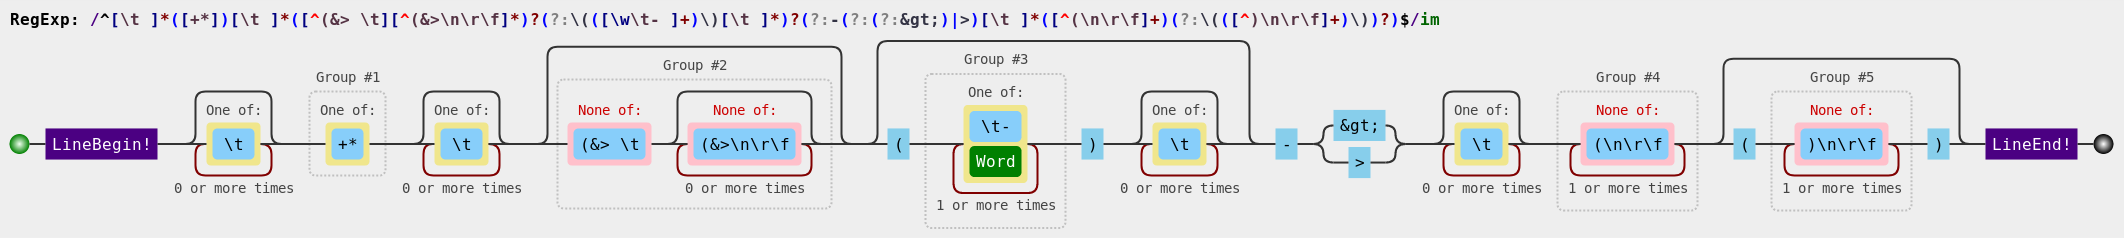
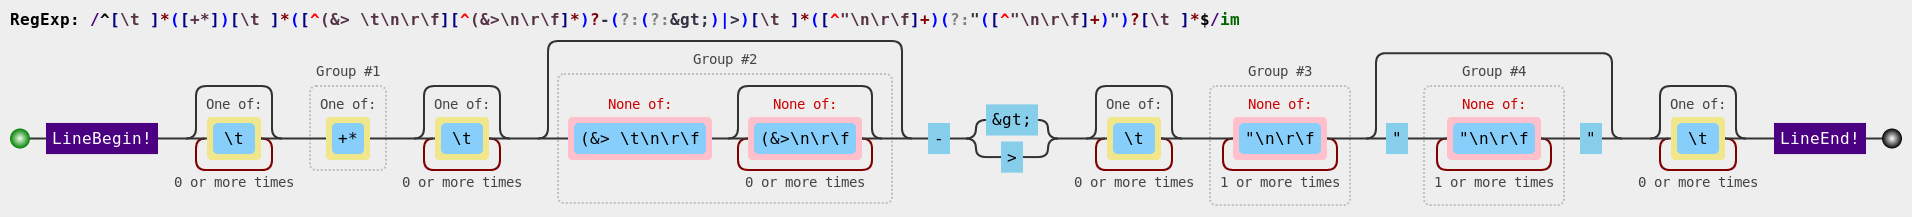
refactor (annotations) & feat (scripts)

diff --git a/versum/reference.md b/versum/reference.md
@@ -62,30 +62,47 @@ Diverts are transformed into a triggerable element in the presentation. Examples
 ~~~markdown
 Label -> Target
 ~~~
-The left part (`Label`) is the label to be presented or related to the triggerable element. The middle that appears as an arrow ( `->`) or a variation (according to the type), defines the divert. The right element (` Target`) defines the target knot, to be addressed when the divert is triggered.
+The left part is either a `Label` or a Logical `Expression`. `Label` is the label to be presented or related to the triggerable element; `Expression` is the logical expression to be evaluated. The middle that appears as an arrow ( `->`) or a variation (according to the type), defines the divert. The right element (` Target`) defines the target knot, to be addressed when the divert is triggered.
 
 There are three types of divert:
 
 ### Forward Divert
 ~~~markdown
-* Label -> Target
+* Label|Expression -> Target
 ~~~
 Deviates the course of the narrative to the target when triggered, i.e., the target knot is loaded and presented to the user.
 
 ### Round Divert `[under debate]`
 ~~~markdown
-* Label <-> Target
+* Label|Expression <-> Target
 ~~~
 Behaves similarly to the `Forward Divert`, but it returns to the origin (the knot where the divert was triggered) as soon as the user leaves the `Target` knot.
 
 ### Enclosed Divert `[under debate]`
 ~~~markdown
-* Label (-) Target Knot
-* Label (-) "Enclosed Text"
+* Label|Expression (-) Target Knot
+* Label|Expression (-) "Enclosed Text"
 ~~~
 Does not deviates the course of the narrative. It instead presents in the body of the current knot:
 - The content of the `Target Knot`.
 - An `Enclosed Text`. In this case, the text must be in quotes.
+
+### Using Expressions
+A logical expression can be written and, when the condition is met inside the node, it triggers the divert.
+
+Example:
+~~~markdown
+* Case.parameter == "description-ekg" -> Description
+* Case.parameter == "ekg-description" -> EKG
+~~~
+
+### Informing Parameters
+It is possible to inform a parameter after the target knot name. This parameter is a value or set of values that can be informed to the target knot when the divert is triggered.
+
+The simplest parameter format is a value between quotation marks:
+~~~markdown
+* Submit -> Notice Board "very good!"
+~~~
 
 ## Entity
 Refers to a entity in the scene.
@@ -101,7 +118,7 @@ The current version uses `@` indicate the entity.
 
 ## Input
 
-~~~makdown
+~~~markdown
 ? <variable>
   * type: <input subtype>
   * rows: <rows>
@@ -142,6 +159,9 @@ The next example shows how to add a divert in each option, i.e., if a player cho
   * vocabularies: mesh
   * right answers: pericarditis, myopericarditis -> Show Right
   * wrong answers: infarction, myocardial infarction -> Show Wrong
+
+* hypothesis is right -> Show Right
+* hypothesis is wrong -> Show Wrong
 ~~~
 
 A math example:
@@ -167,23 +187,31 @@ Patient ... :chest pain:+: ... :pain in the chest(chest pain):+:
 
 ## Annotation
 
-Elements from the narrative and user inputs are annotated and connected to structured data and knowledge structures defined in the Data-driven Layer, like dictionaries and ontologies. These structures are connected with external knowledge bases, e.g., [MeSH](https://www.nlm.nih.gov/mesh/meshhome.html) - Medical Subject Headings. This layer is designed to be consumed by machines to support the automation of tasks as evaluation and feedback. 
+Elements from the narrative and user inputs are annotated and connected to structured data and knowledge representation systems. We will use this term to refer generically to controlled vocabularies, taxonomies, thesaurus, ontologies, etc. An example of a knowledge representation system is [MeSH](https://www.nlm.nih.gov/mesh/meshhome.html) - Medical Subject Headings.
 
-Segments between braces are annotated. Annotations connect terms and expressions to the Data-driven Layer. The following text has annotated terms, which are aligned to medical knowledge basis. 
+Segments between braces are annotated. 
 
 For example, the following narrative present symptoms of a patient:
 > Patient a man 55 years old; rather fat; subject to frequent attacks of winter cough, with asthmatic tendency.
 
-Some key characteristics and symptoms of the patient were annotated, so they can be interpreted by machines:
-> Patient a {man} {55 years old}; rather fat; subject to frequent attacks of winter {cough}, with {asthmatic} tendency.
+Some key characteristics and symptoms of the patient were annotated:
+> Patient a {man} {55 years old}; rather fat; subject to frequent attacks of {winter cough}, with {asthmatic} tendency.
 
-Some of the terms were not automatically recognized in the knowledge base. An equivalent term is presented between parenthesis beside the term (this second term is not presented to the case rendering):
-> Patient a {man(male)} {55 years old(aging=51)}; rather fat; subject to frequent attacks of winter {cough}, with {asthmatic(asthma)} tendency.
+Whenever a segment is annotated, the translator tries to automatically relate it to a knowledge representation system.
+
+It is possible to attach literal or formal annotations to the annotated terms. They come between parenthesis after the annotated term and are not presented when the text is rendered. Literal annotations are written in quotes, as follows:
+> Patient a {man} {55 years old}("the age is important in this case"); rather fat; subject to frequent attacks of {winter cough}("it was winter when he came"), with {asthmatic} tendency.
+
+Formal annotations do not come in quotes. They are meant to be interpreted by machines, therefore, they must be connected to a knowledge representation system. A usual application is when an annotated term cannot be automatically related to a knowledge representation system. In this case, an equivalent formal term is presented between parenthesis beside the term. The following text has annotated terms, which are aligned to a medical knowledge basis.
+
+> Patient a {man}(male) {55 years old}(aging=51); rather fat; subject to frequent attacks of winter {cough}, with {asthmatic}(asthma) tendency.
+
+Annotations can be seen as the connection of segments to the Data-driven Layer. This layer is designed to be consumed by machines to support the automation of tasks as evaluation and feedback. This Data-driven Layer also defines how segments are associated with external knowledge representation systems as MeSH. It can define global associations or they can be guided by an annotation context, detailed in the next section.
 
 ## Annotation Context
 A block of annotation context can be defined between double braces. The block defines a semantic context for the narrative and the respective annotations. The context guides the interpretation of parts of the narrative. The following example presents a `symptoms` annotation context.
 > {{symptoms
 
-> Patient a {man(male)} {55 years old(aging=51)}; rather fat; subject to frequent attacks of winter {cough}, with {asthmatic(asthma)} tendency.
+> Patient a {man}(male) {55 years old}(aging=51); rather fat; subject to frequent attacks of winter {cough}, with {asthmatic}(asthma) tendency.
 
 > }}

diff --git a/versum/syntax.md b/versum/syntax.md
@@ -34,17 +34,18 @@ __ [title] __
 ### Markdown to Object
 * Sentence:
 ```
-## [title] ([category],..,[category]) ##
+## [title] ([category],..,[category]): [inheritance] ##
 ```
 or
 ```
-[title] ([category],..,[category])
+[title] ([category],..,[category]): [inheritance]
 =====
 ```             
-* Expression: `(?:^[ \t]*(#+)[ \t]*([^\( \t\n\r\f][^\(\n\r\f]*)(?:\((\w[\w \t,]*)\))?[ \t]*#*[ \t]*$)|(?:^[ \t]*([^\( \t\n\r\f][^\(\n\r\f]*)(?:\((\w[\w \t,]*)\))?[ \t]*[\f\n\r][\n\r]?(==+|--+)$)`
-  * Group #1 or Group #6: level of the knot (acordding to the number of # or the underline type === or ---)
-  * Group #2 or Group #4: title
-  * Group #3 or Group #5: [categories]
+* Expression: `(?:^[ \t]*(#+)[ \t]*([^\( \t\n\r\f\:][^\(\n\r\f\:]*)(?:\((\w[\w \t,]*)\))?[ \t]*(?:\:[ \t]*([^\(\n\r\f][^\(\n\r\f\t]*))?[ \t]*#*[ \t]*$)|(?:^[ \t]*([^\( \t\n\r\f\:][^\(\n\r\f\:]*)(?:\((\w[\w \t,]*)\))?[ \t]*(?:\:[ \t]*([^\(\n\r\f][^\(\n\r\f\t]*))?[ \t]*[\f\n\r][\n\r]?(==+|--+)$)`
+  * Group #1 or Group #8: level of the knot (acordding to the number of # or the underline type === or ---)
+  * Group #2 or Group #5: title
+  * Group #3 or Group #6: [categories]
+  * Group #4 or Group #7: inheritance
 ![Knot Expression](expressions/knot.png)
 * Object:
 ```
@@ -52,6 +53,7 @@ or
    type: "knot"
    title: <title of the knot>
    categories: [<set of categories>]
+   inheritance: <inherited knot>
    level: <level of the knot>
    content: [<elements subordinated to this knot>]
    annotations: [<set of annotations]
@@ -158,13 +160,12 @@ This content is further converted to HTML by the compiler.
 
 ## Option
 ### Markdown to Object
-* Sentence: `+ [label] ([rule]) -> [target]` or `* [label] ([rule]) -> [target]([value])`
-* Expression: `^[ \t]*([\+\*])[ \t]*([^\(&> \t][^\(&>\n\r\f]*)?(?:\(([\w \t-]+)\)[ \t]*)?(?:-(?:(?:&gt;)|>)[ \t]*([^\(\n\r\f]+)(?:\(([^\)\n\r\f]+)\))?)$`
+* Sentence: `+ [label] -> [target] "[parameter]"` or `* [label] -> [target] "[parameter]"`
+* Expression: `^[ \t]*([\+\*])[ \t]*([^\(&> \t\n\r\f][^\(&>\n\r\f]*)?-(?:(?:&gt;)|>)[ \t]*([^"\n\r\f]+)(?:"([^"\n\r\f]+)")?[ \t]*$`
   * Group #1: subtype
   * Group #2: label
-  * Group #3: rule
-  * Group #4: target
-  * Group #5: value
+  * Group #3: target
+  * Group #4: parameter
 ![Option Expression](expressions/option.png)
 * Object:
 ```
@@ -172,15 +173,14 @@ This content is further converted to HTML by the compiler.
    type: "option"
    subtype: "+" or "*"
    label: <label to be displayed -- if there is no explicit label, the target is the label>
-   rule:  <rule of the trigger -- determine its position in the knot>
    target: <resolved target -- if there is not an explicit target, the label is the target>
-   value: <value for the target knot>
+   parameter: <parameter for the target knot>
 }
 ```
 `<resolved target>` - target after resolving relative links.
 ### Object to HTML
 ```
-<dcc-trigger id='dcc[seq]'[author] type='[subtype]' action='knot/[target]/navigate' label='[display]'[value][image][location]></dcc-trigger>
+<dcc-trigger id='dcc[seq]'[author] type='[subtype]' action='knot/[target]/navigate' label='[display]'[value][image]></dcc-trigger>
 ```
 
 ## Field
@@ -215,7 +215,7 @@ This content is further converted to HTML by the compiler.
 
 ## Divert
 ### Markdown to Object
-* Sentence: `[label] -> [target]`
+* Sentence: `[label] -> [target] "[parameter]"`
 * Expression: `(?:(\w+)|"([^"]+)")(?:[ \t])*-(?:(?:&gt;)|>)[ \t]*(?:(\w[\w.]*)|"([^"]*)")`
   * Group #1: label (without quotes)
   * Group #2: label (with quotes)
@@ -234,6 +234,27 @@ This content is further converted to HTML by the compiler.
 ### Object to HTML
 ```
 <dcc-trigger id='dcc[seq]' action='knot/[target]/navigate' label='[display]'></dcc-trigger>
+```
+
+## Divert Script
+### Markdown to Object
+* Sentence: `-> [target] "[parameter]"`
+* Expression: `^[ \t]*-(?:(?:&gt;)|>)[ \t]*([^"\n\r\f]+)(?:"([^"\n\r\f]+)")?[ \t]*$`
+  * Group #1: target
+  * Group #2: parameter
+![Option Expression](expressions/divert-script.png)
+* Object:
+```
+{
+   type: "divert-script"
+   target: <resolved target>
+   parameter: <parameter for the target knot>
+}
+```
+`<resolved target>` - target after resolving relative links.
+### Object to HTML
+```
+-> [target] "[parameter]"
 ```
 
 ## Entity

diff --git a/versum/versum-dccs.md b/versum/versum-dccs.md
@@ -1,0 +1,60 @@
+
+[DCC Id] = event => [DCC Id]
+@Id(DCC) = event => @Id(DCC)
+@DCC = event => @DCC
+
+@Id(DCC) = event "value" => @Id(DCC)
+
+@SayHello(Trigger) = "Hello" => @Asdrubal(Entity)
+
+~~~markdown
+@TalkButton(Trigger "Talk") = "I am a doctor." => @Doctor(LivelyTalk "Hello, ")
+~~~
+
+~~~html
+<dcc-trigger id="TalkButton" label="Talk" action="send/message" value="I am a doctor.">
+</dcc-trigger>
+
+<dcc-lively-talk id="Doctor"
+                 duration="0s"
+                 character="doctor"
+                 speech="Hello, ">
+  <subscribe-dcc message="send/message"></subscribe>
+</dcc-lively-talk>
+~~~
+
+[Trigger SayHello] = "Hello" => [Entity Asdrubal]
+
+[Input] = value => [Console]
+
+[Trigger Send] => [Entity Asdrubal]
+
+[Trigger Send "Hello!"] => [Entity Asdrubal]
+
+[Trigger Send] = "Hello" => [Entity Asdrubal]
+* positional parameters
+* nominal parameters
+
+[Entity Asdrubal "images/asdrubal.png"]*
+* with memory ( * )
+
+[Trigger Start] => [Metronome 20 1]
+
+* Namespaces
+[Gatilho Inicia] => [Metronomo 20 1]
+
+[Trigger] = Start => [Metronome 20] = Cycle => [Counter]
+
+[Simulador Foguete
+   distancia: 20
+   corpo: "     "
+   base: "    "]
+
+[Simulador Foguete] =
+
+[Input Hypothesis
+   rows: 5
+   right answers: "teste"]
+? Input
+  * rows: 5
+  * right answers: "teste"

diff --git a/theme/README.md b/theme/README.md
@@ -1,0 +1,15 @@
+* role
+  * action (trigger)
+    * action-... - trigger element (e.g., button)
+    * action-...-wrapper - trigger element wrapper
+  * input
+    * input-... - input field
+    * input-...-text - input text
+  * entity
+    * entity-... - entity label
+    * entity-...-image - entity image
+    * entity-...-text - entity speech
+  role-...-wrapper - generic role wrapper
+
+* knot
+* knot-wrapper - knot content wrapper
